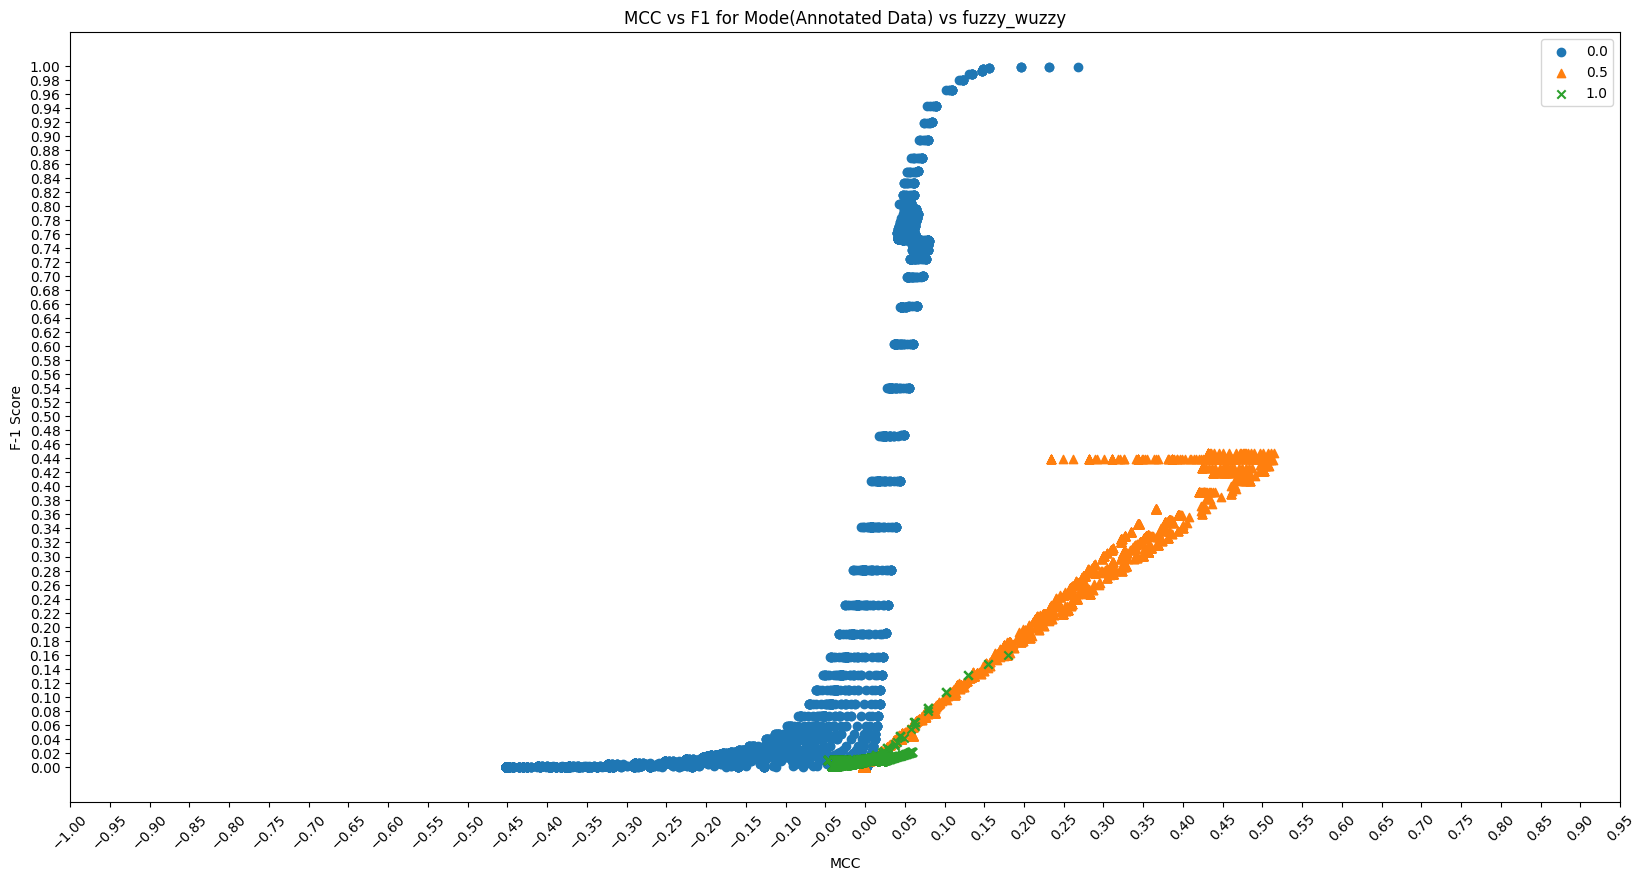
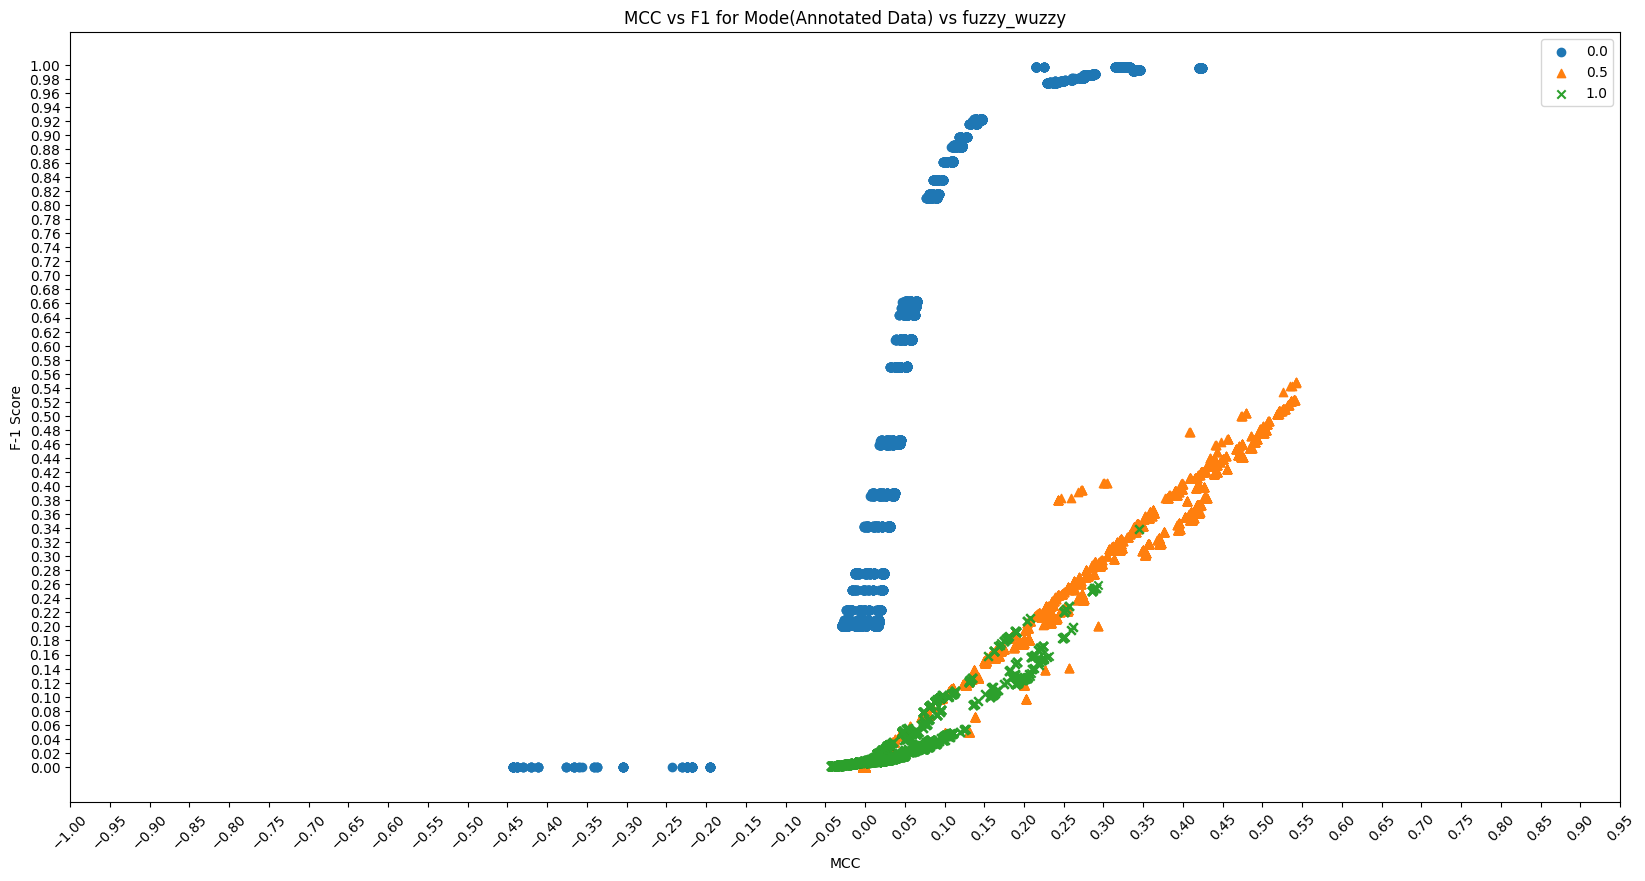
updated results

diff --git a/Implementation/AnnotatedDataHandler.py b/Implementation/AnnotatedDataHandler.py
@@ -28,11 +28,11 @@ class AnnotatedDataHandler:
         self.annotator4Data = []
 
         # Computational accessories
-        self.result_file_index = 1.0
+        self.result_file_index = 1.1
         self.computed_method = ["fuzzy_wuzzy", "bert_base_mean_tokens",
                                 "bert_base_mean_tokens_syn_and_sem", "bert_base_sts_mean_tokens",
                                 "bert_base_sts_mean_tokens_syn_and_sem", "bert_large_sts_mean_tokens",
-                                "bert_large_sts_mean_tokens_syn_and_sem" ]
+                                "bert_large_sts_mean_tokens_syn_and_sem"]
         self.read_computed_data_from = [self.read_computed_data_from_fuzzy_wuzzy,
                                         self.read_computed_data_from_bert_base_mean_tokens,
                                         self.read_computed_data_from_bert_base_mean_tokens_syn_and_sem,
@@ -56,7 +56,6 @@ class AnnotatedDataHandler:
         self.marker_set = ["o", "^", "x"]
         self.color_set = ["blue", "red", "green"]
 
-
     def initDataStructures(self):
         self.annotator1Data = []
         self.annotator2Data = []
@@ -69,7 +68,6 @@ class AnnotatedDataHandler:
         self.bert_base_sts_mean_tokens_syn_and_sem_computed_data = []
         self.bert_large_sts_mean_tokens_computed_data = []
         self.bert_large_sts_mean_tokens_syn_and_sem_computed_data = []
-
 
     def log(self, msg, log_at="INFO"):
         if log_at in self.logLevel:
@@ -187,7 +185,7 @@ class AnnotatedDataHandler:
 
         # check if some float value was missed
         if self.isFloat(attr):
-            self.log([attr], "DEBUG")
+            self.log(["attr:",attr], "DEBUG")
 
         return attr
 
@@ -265,65 +263,65 @@ class AnnotatedDataHandler:
     def read_computed_data_from_fuzzy_wuzzy(self, readHeaders=False, thresholdValues={}):
         if not readHeaders:
             self.fuzzy_wuzzy_computed_data = annotatedDataHandler.readCSVWithoutHeaders(
-                'Data/1-table-V'+str(self.result_file_index)+'0.5''.csv', True, thresholdValues)
+                'Data/1-table-V' + str(self.result_file_index) + '0.5''.csv', True, thresholdValues)
         else:
             self.fuzzy_wuzzy_computed_data = annotatedDataHandler.readCSV(
-                'Data/1-table-V'+str(self.result_file_index)+'.csv', True, thresholdValues)
+                'Data/1-table-V' + str(self.result_file_index) + '.csv', True, thresholdValues)
         return self.fuzzy_wuzzy_computed_data
         # self.log(["method1 data loaded: ", len(self.fuzzy_wuzzy_computed_data), " with readHeaders=", readHeaders])
 
     def read_computed_data_from_bert_base_mean_tokens(self, readHeaders=False, thresholdValues={}):
         if not readHeaders:
             self.bert_base_mean_tokens_computed_data = annotatedDataHandler.readCSVWithoutHeaders(
-                'Data/2-table-V'+str(self.result_file_index)+'.csv', True, thresholdValues)
+                'Data/2-table-V' + str(self.result_file_index) + '.csv', True, thresholdValues)
         else:
             self.bert_base_mean_tokens_computed_data = annotatedDataHandler.readCSV(
-                'Data/2-table-V'+str(self.result_file_index)+'.csv', True, thresholdValues)
+                'Data/2-table-V' + str(self.result_file_index) + '.csv', True, thresholdValues)
         return self.bert_base_mean_tokens_computed_data
 
     def read_computed_data_from_bert_base_mean_tokens_syn_and_sem(self, readHeaders=False, thresholdValues={}):
         if not readHeaders:
             self.bert_base_mean_tokens_syn_and_sem_computed_data = annotatedDataHandler.readCSVWithoutHeaders(
-                'Data/3-table-V'+str(self.result_file_index)+'.csv', True, thresholdValues)
+                'Data/3-table-V' + str(self.result_file_index) + '.csv', True, thresholdValues)
         else:
             self.bert_base_mean_tokens_syn_and_sem_computed_data = annotatedDataHandler.readCSV(
-                'Data/3-table-V'+str(self.result_file_index)+'.csv', True, thresholdValues)
+                'Data/3-table-V' + str(self.result_file_index) + '.csv', True, thresholdValues)
         return self.bert_base_mean_tokens_syn_and_sem_computed_data
 
     def read_computed_data_from_bert_base_sts_mean_tokens(self, readHeaders=False, thresholdValues={}):
         if not readHeaders:
             self.bert_base_sts_mean_tokens_computed_data = annotatedDataHandler.readCSVWithoutHeaders(
-                'Data/4-table-V'+str(self.result_file_index)+'.csv', True, thresholdValues)
+                'Data/4-table-V' + str(self.result_file_index) + '.csv', True, thresholdValues)
         else:
             self.bert_base_sts_mean_tokens_computed_data = annotatedDataHandler.readCSV(
-                'Data/4-table-V'+str(self.result_file_index)+'.csv', True, thresholdValues)
+                'Data/4-table-V' + str(self.result_file_index) + '.csv', True, thresholdValues)
         return self.bert_base_sts_mean_tokens_computed_data
 
     def read_computed_data_from_bert_base_sts_mean_tokens_syn_and_sem(self, readHeaders=False, thresholdValues={}):
         if not readHeaders:
             self.bert_base_sts_mean_tokens_syn_and_sem_computed_data = annotatedDataHandler.readCSVWithoutHeaders(
-                'Data/5-table-V'+str(self.result_file_index)+'.csv', True, thresholdValues)
+                'Data/5-table-V' + str(self.result_file_index) + '.csv', True, thresholdValues)
         else:
             self.bert_base_sts_mean_tokens_syn_and_sem_computed_data = annotatedDataHandler.readCSV(
-                'Data/5-table-V'+str(self.result_file_index)+'.csv', True, thresholdValues)
+                'Data/5-table-V' + str(self.result_file_index) + '.csv', True, thresholdValues)
         return self.bert_base_sts_mean_tokens_syn_and_sem_computed_data
 
     def read_computed_data_from_bert_large_sts_mean_tokens(self, readHeaders=False, thresholdValues={}):
         if not readHeaders:
             self.bert_large_sts_mean_tokens_computed_data = annotatedDataHandler.readCSVWithoutHeaders(
-                'Data/6-table-V'+str(self.result_file_index)+'.csv', True, thresholdValues)
+                'Data/6-table-V' + str(self.result_file_index) + '.csv', True, thresholdValues)
         else:
             self.bert_large_sts_mean_tokens_computed_data = annotatedDataHandler.readCSV(
-                'Data/6-table-V'+str(self.result_file_index)+'.csv', True, thresholdValues)
+                'Data/6-table-V' + str(self.result_file_index) + '.csv', True, thresholdValues)
         return self.bert_large_sts_mean_tokens_computed_data
 
     def read_computed_data_from_bert_large_sts_mean_tokens_syn_and_sem(self, readHeaders=False, thresholdValues={}):
         if not readHeaders:
             self.bert_large_sts_mean_tokens_syn_and_sem_computed_data = annotatedDataHandler.readCSVWithoutHeaders(
-                'Data/7-table-V'+str(self.result_file_index)+'.csv', True, thresholdValues)
+                'Data/7-table-V' + str(self.result_file_index) + '.csv', True, thresholdValues)
         else:
             self.bert_large_sts_mean_tokens_syn_and_sem_computed_data = annotatedDataHandler.readCSV(
-                'Data/7-table-V'+str(self.result_file_index)+'.csv', True, thresholdValues)
+                'Data/7-table-V' + str(self.result_file_index) + '.csv', True, thresholdValues)
         return self.bert_large_sts_mean_tokens_syn_and_sem_computed_data
 
     def readAllComputedData(self, readHeaders=False, thresholdValues={}):
@@ -540,7 +538,7 @@ class AnnotatedDataHandler:
 
             # Even java has labeled loops. This sucks!
             if rowIterator == 1:
-                print(len(colHeadNameList))
+                print("collapseDataSetTo1dArrayWithHeaders:",len(colHeadNameList))
                 continue
             # print("colHeadNameList", colHeadNameList)
             colIterator = 0
@@ -554,8 +552,8 @@ class AnnotatedDataHandler:
                 try:
                     colHeaderName = colHeadNameList[colIterator - 1]
                 except:
-                    print(row)
-                    print("colIterator:", colIterator, ", size of colHeadNameList:", len(colHeadNameList))
+                    print("collapseDataSetTo1dArrayWithHeaders except:",row)
+                    print("collapseDataSetTo1dArrayWithHeaders except:colIterator:", colIterator, ", size of colHeadNameList:", len(colHeadNameList))
                     exit()
                 # attr = self.convertAttrValue(attr)
                 list1d.append([rowHeaderName, colHeaderName, attr])
@@ -648,7 +646,7 @@ class AnnotatedDataHandler:
                     performance_dict[pc_index]["f-measure"][str(B)] = 0
                 else:
                     if f_measure_numerator / f_measure_denominator > 1:
-                        print(f_measure_numerator, "/", f_measure_denominator)
+                        print("calculate_ovr_conditions:", f_measure_numerator, "/", f_measure_denominator)
                     performance_dict[pc_index]["f-measure"][str(B)] = f_measure_numerator / f_measure_denominator
 
             performance_dict[pc_index]["G-mean1"] = math.sqrt(performance_dict[pc_index]["sensitivity"] * \
@@ -671,7 +669,7 @@ class AnnotatedDataHandler:
         return performance_dict
 
     def evaluateMethod(self, annotatedData, methodIndex=1):
-        annotatedDataHandler.log("Mode(Annotated Data) vs " + self.computed_method[methodIndex])
+        self.log("Mode(Annotated Data) vs " + self.computed_method[methodIndex])
         minFive = float(0.0)
         # maxFive = 0.1
         ovr_conditions = []
@@ -683,7 +681,7 @@ class AnnotatedDataHandler:
                 conditions = {}
                 data_in_2d = self.read_computed_data_from[methodIndex](True, thresholds)
                 data_in_1d = annotatedDataHandler.collapseDataSetTo1d(data_in_2d)
-
+                self.log("converted to 1 d")
                 # data = {'y_Actual': annotatedData,  # ["-1","0","0.5","1","1.5"],
                 #         'y_Predicted': data_in_1d  # [1,0.9,0.6,0.7,0.1]
                 #         }
@@ -744,6 +742,7 @@ class AnnotatedDataHandler:
         # plt.show()
         self.log("saving plot:" + plotTitle)
         fig.savefig("Results/charts/" + self.get_valid_filename(plotTitle), bbox_inches='tight')
+        plt.close(fig)
 
     # Plot precision vs recall
     def plot_pr(self, condition_from_experimental_iterations, plotTitle):
@@ -778,6 +777,7 @@ class AnnotatedDataHandler:
         # plt.show()
         self.log("saving plot:" + plotTitle)
         fig.savefig("Results/charts/" + self.get_valid_filename(plotTitle), bbox_inches='tight')
+        plt.close(fig)
 
     def plot_scatter_for_mcc_vs_f1(self, condition_from_experimental_iterations, plotTitle):
         fig = plt.figure(figsize=(20, 10))
@@ -807,6 +807,8 @@ class AnnotatedDataHandler:
         # plt.show()
         self.log("saving plot:" + plotTitle)
         fig.savefig("Results/charts/" + self.get_valid_filename(plotTitle), bbox_inches='tight')
+        plt.close(fig)
+
 
 annotatedDataHandler = AnnotatedDataHandler()
 
